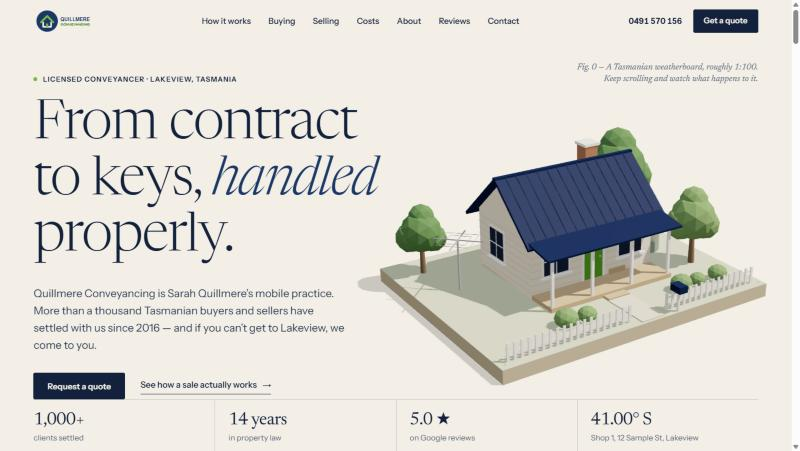
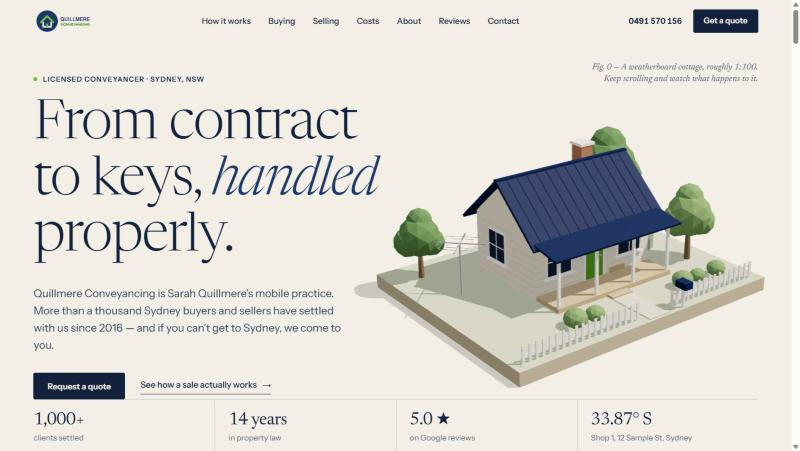
Quillmere demo: move the business from Tasmania to Sydney (#2)
Address, phone, coordinates, copy and zoning terms now read Sydney/NSW, and the
stamp duty calculator uses the NSW 2026/27 general transfer duty rates from
Revenue NSW. New card thumbnail.

diff --git a/website/demo-quillmere-conveyancing/index.html b/website/demo-quillmere-conveyancing/index.html
@@ -6,8 +6,8 @@
 <meta name="robots" content="noindex, follow">
 <link rel="canonical" href="https://thedigitalagila.com/demo-quillmere-conveyancing/">
 <link rel="icon" href="img/logo.svg">
-<title>Quillmere Conveyancing — Licensed Conveyancer, Lakeview Tasmania</title>
-<meta name="description" content="Sarah Quillmere's mobile conveyancing practice in Lakeview, Tasmania. Buying or selling, from contract to keys.">
+<title>Quillmere Conveyancing — Licensed Conveyancer, Sydney NSW</title>
+<meta name="description" content="Sarah Quillmere's mobile conveyancing practice in Sydney, NSW. Buying or selling, from contract to keys.">
 <link rel="preconnect" href="https://fonts.googleapis.com">
 <link rel="preconnect" href="https://fonts.gstatic.com" crossorigin>
 <link href="https://fonts.googleapis.com/css2?family=Instrument+Sans:wght@400;500;600&family=Newsreader:ital,opsz,wght@0,6..72,300;0,6..72,400;0,6..72,500;1,6..72,300;1,6..72,400&display=swap" rel="stylesheet">
@@ -43,24 +43,24 @@
   <!-- HERO -->
   <section class="hero">
     <div class="hero-copy">
-      <p class="label"><span class="dot"></span>Licensed conveyancer · Lakeview, Tasmania</p>
+      <p class="label"><span class="dot"></span>Licensed conveyancer · Sydney, NSW</p>
       <h1>
         <span class="ln"><span>From contract</span></span>
         <span class="ln"><span>to keys, <em>handled</em></span></span>
         <span class="ln"><span>properly.</span></span>
       </h1>
-      <p class="lede">Quillmere Conveyancing is Sarah Quillmere’s mobile practice. More than a thousand Tasmanian buyers and sellers have settled with us since 2016 — and if you can’t get to Lakeview, we come to you.</p>
+      <p class="lede">Quillmere Conveyancing is Sarah Quillmere’s mobile practice. More than a thousand Sydney buyers and sellers have settled with us since 2016 — and if you can’t get to Sydney, we come to you.</p>
       <div class="hero-cta">
         <a class="btn btn-solid" href="#contact">Request a quote</a>
         <a class="link-arrow" href="#process">See how a sale actually works</a>
       </div>
     </div>
-    <p class="model-note">Fig. 0 — A Tasmanian weatherboard, roughly 1:100.<br>Keep scrolling and watch what happens to it.</p>
+    <p class="model-note">Fig. 0 — A weatherboard cottage, roughly 1:100.<br>Keep scrolling and watch what happens to it.</p>
     <ul class="hero-facts">
       <li><b>1,000+</b><span>clients settled</span></li>
       <li><b>14 years</b><span>in property law</span></li>
       <li><b>5.0 ★</b><span>on Google reviews</span></li>
-      <li><b>41.00° S</b><span>Shop 1, 12 Sample St, Lakeview</span></li>
+      <li><b>33.87° S</b><span>Shop 1, 12 Sample St, Sydney</span></li>
     </ul>
   </section>
 
@@ -71,7 +71,7 @@
       <p class="statement reveal">It’s the part of property law that moves a home from one name to another. It sounds simple. <em>It rarely is.</em></p>
       <p class="body reveal">Behind a single signature sit contract terms, mortgages, the type of title and tenancy, council regulations and zoning. Our job is to read all of it before you commit to any of it.</p>
       <ul class="terms reveal" aria-label="Things a conveyancer checks">
-        <li>Covenants</li><li>Easements</li><li>Caveats</li><li>Title type</li><li>Tenancy</li><li>Zoning</li><li>Planning schemes</li><li>Adjustments</li>
+        <li>Covenants</li><li>Easements</li><li>Caveats</li><li>Title type</li><li>Tenancy</li><li>Zoning</li><li>Planning controls</li><li>Adjustments</li>
       </ul>
     </div>
   </section>
@@ -147,8 +147,8 @@
       </div>
       <ul class="awards">
         <li><span>2023</span>Business Excellence Awards <i>Finalist</i></li>
-        <li><span>2023</span>Best Property Conveyancing Services Business <i>Tasmania</i></li>
-        <li><span>2022</span>Best Conveyancing Firm, APAC Legal Awards <i>Tasmania</i></li>
+        <li><span>2023</span>Best Property Conveyancing Services Business <i>NSW</i></li>
+        <li><span>2022</span>Best Conveyancing Firm, APAC Legal Awards <i>NSW</i></li>
         <li><span>2022</span>Client Service Excellence Award <i>APAC Legal Awards</i></li>
       </ul>
     </div>
@@ -196,7 +196,7 @@
       <div class="duty-copy">
         <p class="label">Costs involved</p>
         <h2 class="reveal">The biggest cost isn’t our fee. It’s the duty.</h2>
-        <p class="body">Drag the price to see roughly what the Tasmanian government will ask for on transfer. Our own fee is quoted up front, in writing, before you commit to anything.</p>
+        <p class="body">Drag the price to see roughly what the NSW Government will ask for on transfer. Our own fee is quoted up front, in writing, before you commit to anything.</p>
         <a class="btn btn-line" href="#contact">Ask for a written quote</a>
       </div>
       <div class="calc reveal">
@@ -205,10 +205,10 @@
         <input type="range" id="priceRange" min="100000" max="1500000" step="5000" value="620000" aria-label="Purchase price slider">
         <div class="calc-scale"><span>$100k</span><span>$800k</span><span>$1.5m</span></div>
         <div class="calc-out">
-          <div><span>Estimated transfer duty</span><output id="dutyOut">$23,348</output></div>
-          <div><span>Share of the price</span><output id="dutyPct">3.77%</output></div>
+          <div><span>Estimated transfer duty</span><output id="dutyOut">$22,087</output></div>
+          <div><span>Share of the price</span><output id="dutyPct">3.56%</output></div>
         </div>
-        <p class="calc-note" id="calcNote">General Tasmanian rate only. It doesn’t account for first home buyer or pensioner concessions, or foreign purchaser surcharges. An estimate, not advice — we’ll confirm the exact figure with your quote.</p>
+        <p class="calc-note" id="calcNote">General NSW rate only. It doesn’t account for first home buyer or pensioner concessions, or foreign purchaser surcharges. An estimate, not advice — we’ll confirm the exact figure with your quote.</p>
       </div>
     </div>
   </section>
@@ -227,7 +227,7 @@
           <h3>Sarah Quillmere</h3>
           <p class="role">Owner · Licensed conveyancer</p>
           <p>Sarah has worked in the legal industry for over 14 years. She finished her Advanced Diploma in Conveyancing in 2016 and opened a mobile practice the same year, because the people who most need a conveyancer are usually at work during office hours.</p>
-          <p>She invests in and develops property herself, keeps up with the council planning schemes, and will tell you plainly whether a property suits what you intend to do with it. What she likes most is seeing what clients go on to make of the place.</p>
+          <p>She invests in and develops property herself, keeps up with the council planning controls, and will tell you plainly whether a property suits what you intend to do with it. What she likes most is seeing what clients go on to make of the place.</p>
           <a class="link-arrow" href="mailto:sarah@quillmereconveyancing.example">sarah@quillmereconveyancing.example</a>
         </div>
       </article>
@@ -275,9 +275,9 @@
       </div>
       <address>
         <dl>
-          <div><dt>Call</dt><dd><a href="tel:0491570156">0491 570 156</a><br><a href="tel:0355500142">(03) 5550 0142</a></dd></div>
+          <div><dt>Call</dt><dd><a href="tel:0491570156">0491 570 156</a><br><a href="tel:0255500142">(02) 5550 0142</a></dd></div>
           <div><dt>Write</dt><dd><a href="mailto:hello@quillmereconveyancing.example">hello@quillmereconveyancing.example</a></dd></div>
-          <div><dt>Visit</dt><dd>Shop 1, 12 Sample Street<br>Lakeview TAS 7000</dd></div>
+          <div><dt>Visit</dt><dd>Shop 1, 12 Sample Street<br>Sydney NSW 2000</dd></div>
           <div><dt>Hours</dt><dd>Monday to Friday, 9am – 5pm<br>Or we come to you, by arrangement</dd></div>
         </dl>
       </address>
@@ -308,7 +308,7 @@
   </div>
   <div class="wrap foot-base">
     <span>© <span id="yr">2026</span> Quillmere Conveyancing</span>
-    <span>Shop 1, 12 Sample Street, Lakeview TAS 7000</span>
+    <span>Shop 1, 12 Sample Street, Sydney NSW 2000</span>
   </div>
 </footer>
 

diff --git a/website/demo-quillmere-conveyancing/scene.js b/website/demo-quillmere-conveyancing/scene.js
@@ -84,7 +84,7 @@ function start() {
       W: 5.2, D: 3.6, storeys: 1, wall: 0xf4efe4, roofC: 0x1d3562, doorC: 0x6fae3d, roof: 'gable', rise: 1.55,
       front: 'veranda', boards: true, chimney: true, tank: true, hoist: true, rooms: GROUND,
       spec: { name: 'The weatherboard cottage', sub: 'Single storey · built around 1950',
-        facts: [['Bedrooms', '2'], ['Bathrooms', '1'], ['Land', '612 m²'], ['Zoning', 'General Residential']],
+        facts: [['Bedrooms', '2'], ['Bathrooms', '1'], ['Land', '612 m²'], ['Zoning', 'R2 Low Density Residential']],
         checks: ['Whether the rainwater tank and wood heater were ever approved', 'That the side fence really sits on the title boundary', 'Any easement for the sewer line across the back yard'] },
     },
     family: {
@@ -92,7 +92,7 @@ function start() {
       front: 'porch', boards: true, chimney: true,
       rooms: [['Hall & stairs', -0.31, 0, 0, 'stairs'], ['Living', 0.2, 0.25, 0, 'sofa'], ['Kitchen', 0.2, -0.3, 0, 'kitchen'], ...UPPER],
       spec: { name: 'The family two-storey', sub: 'Two storeys · weatherboard',
-        facts: [['Bedrooms', '4'], ['Bathrooms', '2'], ['Land', '780 m²'], ['Zoning', 'General Residential']],
+        facts: [['Bedrooms', '4'], ['Bathrooms', '2'], ['Land', '780 m²'], ['Zoning', 'R2 Low Density Residential']],
         checks: ['That the second storey has its completion certificate', 'Building and plumbing permits for the upstairs bathroom', 'Whether the driveway crosses a neighbour’s title'] },
     },
     bungalow: {
@@ -100,7 +100,7 @@ function start() {
       front: 'porch', plinth: 0x9c7462,
       rooms: [['Bedrooms', -0.31, -0.05, 0, 'bed'], ['Living', 0.2, 0.25, 0, 'sofa'], ['Kitchen', 0.2, -0.3, 0, 'kitchen']],
       spec: { name: 'The brick bungalow', sub: 'Single storey · brick veneer, hip roof',
-        facts: [['Bedrooms', '3'], ['Bathrooms', '1'], ['Land', '705 m²'], ['Zoning', 'General Residential']],
+        facts: [['Bedrooms', '3'], ['Bathrooms', '1'], ['Land', '705 m²'], ['Zoning', 'R2 Low Density Residential']],
         checks: ['What stays with the house: blinds, the wood heater, the shed', 'Any mortgage or caveat to be discharged before settlement', 'Rates and land tax, paid up to the day'] },
     },
     townhouse: {
@@ -109,28 +109,28 @@ function start() {
       rooms: [['Entry & stairs', -0.31, 0, 0, 'stairs'], ['Living', 0.2, 0.25, 0, 'sofa'], ['Kitchen', 0.2, -0.3, 0, 'kitchen'], ...UPPER],
       spec: { name: 'The townhouse', sub: 'Two storeys · strata title',
         facts: [['Bedrooms', '3'], ['Bathrooms', '2'], ['Lot', '240 m²'], ['Title', 'Strata']],
-        checks: ['Body corporate levies, by-laws and minutes', 'Which walls and which car space are actually yours', 'The insurance the body corporate holds'] },
+        checks: ['Owners corporation levies, by-laws and minutes', 'Which walls and which car space are actually yours', 'The insurance the owners corporation holds'] },
     },
     modern: {
       W: 6.2, D: 3.8, storeys: 1, wall: 0x3d4350, roofC: 0x23272f, doorC: 0xc98f52, roof: 'skillion', gap: 0.75,
       front: 'none', plinth: 0x2a2e37, bushes: [[2.9, 3.2, 0.4], [3.6, 3.15, 0.3], [4.4, 3.2, 0.36]],
       rooms: [['Bedrooms', -0.31, -0.05, 0, 'bed'], ['Living', 0.2, 0.25, 0, 'sofa'], ['Kitchen', 0.2, -0.3, 0, 'kitchen']],
       spec: { name: 'The new build', sub: 'Single storey · finished last year',
-        facts: [['Bedrooms', '3'], ['Bathrooms', '2'], ['Land', '550 m²'], ['Zoning', 'General Residential']],
+        facts: [['Bedrooms', '3'], ['Bathrooms', '2'], ['Land', '550 m²'], ['Zoning', 'R2 Low Density Residential']],
         checks: ['Certificate of completion and the occupancy permit', 'That the builder’s warranty is still in force', 'Duty and adjustments, worked out to the dollar'] },
     },
     corner: {
       W: 5.6, D: 3.8, storeys: 1, wall: 0xdfe3d3, roofC: 0x8a4a3c, doorC: 0x2f4f7f, roof: 'hip', rise: 1.45,
       front: 'veranda', boards: true, hoist: true, rooms: GROUND,
       spec: { name: 'The corner block', sub: 'Single storey · veranda, hip roof',
-        facts: [['Bedrooms', '3'], ['Bathrooms', '1'], ['Land', '830 m²'], ['Zoning', 'General Residential']],
+        facts: [['Bedrooms', '3'], ['Bathrooms', '1'], ['Land', '830 m²'], ['Zoning', 'R2 Low Density Residential']],
         checks: ['Two street frontages mean two sets of setbacks', 'Whether the veranda was added later, and approved', 'The stormwater easement along the side boundary'] },
     },
     shop: {
       W: 5.6, D: 4.0, storeys: 1, wall: 0xf1ece2, roofC: 0x2a3550, doorC: 0x1d3562, roof: 'flat', front: 'awning', shopfront: true,
       plinth: 0x1d3562, bushes: [],
       rooms: [['Files', -0.31, -0.05, 0, 'shelves'], ['Front desk', 0.2, 0.25, 0, 'desk'], ['Meeting room', 0.2, -0.3, 0, 'table']],
-      spec: { name: 'Our shop', sub: 'Shop 1, 12 Sample Street, Lakeview',
+      spec: { name: 'Our shop', sub: 'Shop 1, 12 Sample Street, Sydney',
         facts: [['Open', 'Mon – Fri, 9 – 5'], ['Phone', '0491 570 156'], ['Parking', 'Out the front'], ['Kettle', 'Usually on']],
         head: 'What happens here', checks: ['Contracts get read before anyone signs them', 'Emily keeps every file on schedule', 'Questions get answered, however small'],
         note: 'Not to scale. The real one has more paperwork.' },
@@ -506,7 +506,7 @@ function start() {
         world.add(this.inst);
         this.v = new Float32Array(N);
         this.j = Array.from({ length: N }, (_, i) => [Math.sin(i * 12.9) * 0.035, Math.cos(i * 7.3) * 0.035, Math.sin(i * 3.1) * 3]);
-        this.n = Math.round((window.__duty || 23348) / 1000);
+        this.n = Math.round((window.__duty || 22087) / 1000);
         addEventListener('duty', e => { this.n = Math.min(N, Math.round(e.detail.duty / 1000)); });
         this.o = new THREE.Object3D();
       },

diff --git a/website/demo-quillmere-conveyancing/about.html b/website/demo-quillmere-conveyancing/about.html
@@ -7,7 +7,7 @@
 <link rel="canonical" href="https://thedigitalagila.com/demo-quillmere-conveyancing/about">
 <link rel="icon" href="img/logo.svg">
 <title>About — Quillmere Conveyancing</title>
-<meta name="description" content="Sarah Quillmere and Emily Tarnwick, the people behind Quillmere Conveyancing in Lakeview, Tasmania.">
+<meta name="description" content="Sarah Quillmere and Emily Tarnwick, the people behind Quillmere Conveyancing in Sydney, NSW.">
 <link rel="preconnect" href="https://fonts.googleapis.com">
 <link rel="preconnect" href="https://fonts.gstatic.com" crossorigin>
 <link href="https://fonts.googleapis.com/css2?family=Instrument+Sans:wght@400;500;600&family=Newsreader:ital,opsz,wght@0,6..72,300;0,6..72,400;0,6..72,500;1,6..72,300;1,6..72,400&display=swap" rel="stylesheet">
@@ -42,7 +42,7 @@
   <section class="phero">
     <p class="label crumb"><a href="index.html">Home</a><span>/</span>About</p>
     <h1><span class="ln"><span>A small office</span></span><span class="ln"><span>that <em>comes to you.</em></span></span></h1>
-    <p class="lede">Quillmere Conveyancing started in 2016 as a mobile practice, because the people who most need a conveyancer are usually at work during office hours. There’s a shop in Lakeview now. The car still gets plenty of use.</p>
+    <p class="lede">Quillmere Conveyancing started in 2016 as a mobile practice, because the people who most need a conveyancer are usually at work during office hours. There’s a shop in Sydney now. The car still gets plenty of use.</p>
   </section>
 
   <section class="story">
@@ -52,7 +52,7 @@
         <h2>Sarah Quillmere</h2>
         <p class="role">Owner · Licensed conveyancer</p>
         <p>Sarah has worked in the legal industry for over 14 years and completed her Advanced Diploma in Conveyancing in 2016. She’s passionate about property investing and development, and invested in her clients’ wellbeing.</p>
-        <p>She stays current on conveyancing procedure, legislation and the council planning schemes, and can tell you whether a property suits what you intend to do with it.</p>
+        <p>She stays current on conveyancing procedure, legislation and the council planning controls, and can tell you whether a property suits what you intend to do with it.</p>
         <p><a class="link-arrow" href="mailto:sarah@quillmereconveyancing.example">sarah@quillmereconveyancing.example</a></p>
       </article>
       <article class="chapter">
@@ -67,8 +67,8 @@
         <h2>Awards</h2>
         <ul class="ruled awards-list">
           <li><span>2023</span>Business Excellence Awards, Finalist</li>
-          <li><span>2023</span>Best Property Conveyancing Services Business, Tasmania</li>
-          <li><span>2022</span>Best Conveyancing Firm, Tasmania · APAC Legal Awards</li>
+          <li><span>2023</span>Best Property Conveyancing Services Business, NSW</li>
+          <li><span>2022</span>Best Conveyancing Firm, NSW · APAC Legal Awards</li>
           <li><span>2022</span>Client Service Excellence Award · APAC Legal Awards</li>
         </ul>
         <p>Thank you to our clients, our staff and everyone who works with us. None of it happens without you.</p>
@@ -84,7 +84,7 @@
 
   <section class="next">
     <div class="wrap">
-      <p class="label">Shop 1, 12 Sample Street, Lakeview</p>
+      <p class="label">Shop 1, 12 Sample Street, Sydney</p>
       <a href="contact.html">Get in touch <span>Or ask us to come to you</span></a>
       <a href="reviews.html">What clients say <span>Five stars on Google</span></a>
       <a href="conveyancing.html">How conveyancing works <span>Five stages</span></a>
@@ -115,7 +115,7 @@
   </div>
   <div class="wrap foot-base">
     <span>© <span id="yr">2026</span> Quillmere Conveyancing</span>
-    <span>Shop 1, 12 Sample Street, Lakeview TAS 7000</span>
+    <span>Shop 1, 12 Sample Street, Sydney NSW 2000</span>
   </div>
 </footer>
 

diff --git a/website/demo-quillmere-conveyancing/costs.html b/website/demo-quillmere-conveyancing/costs.html
@@ -7,7 +7,7 @@
 <link rel="canonical" href="https://thedigitalagila.com/demo-quillmere-conveyancing/costs">
 <link rel="icon" href="img/logo.svg">
 <title>Costs and stamp duty — Quillmere Conveyancing</title>
-<meta name="description" content="Conveyancing costs explained, with a Tasmanian stamp duty calculator.">
+<meta name="description" content="Conveyancing costs explained, with an NSW stamp duty calculator.">
 <link rel="preconnect" href="https://fonts.googleapis.com">
 <link rel="preconnect" href="https://fonts.gstatic.com" crossorigin>
 <link href="https://fonts.googleapis.com/css2?family=Instrument+Sans:wght@400;500;600&family=Newsreader:ital,opsz,wght@0,6..72,300;0,6..72,400;0,6..72,500;1,6..72,300;1,6..72,400&display=swap" rel="stylesheet">
@@ -55,10 +55,10 @@
           <input type="range" id="priceRange" min="100000" max="1500000" step="5000" value="620000" aria-label="Purchase price slider">
           <div class="calc-scale"><span>$100k</span><span>$800k</span><span>$1.5m</span></div>
           <div class="calc-out">
-            <div><span>Estimated transfer duty</span><output id="dutyOut">$23,348</output></div>
-            <div><span>Share of the price</span><output id="dutyPct">3.77%</output></div>
+            <div><span>Estimated transfer duty</span><output id="dutyOut">$22,087</output></div>
+            <div><span>Share of the price</span><output id="dutyPct">3.56%</output></div>
           </div>
-          <p class="calc-note" id="calcNote">Each coin on the lawn is about $1,000 of duty. General Tasmanian rate only, with no concessions or surcharges applied. An estimate, not advice.</p>
+          <p class="calc-note" id="calcNote">Each coin on the lawn is about $1,000 of duty. General NSW rate only, with no concessions or surcharges applied. An estimate, not advice.</p>
         </div>
       </article>
       <article class="chapter">
@@ -113,7 +113,7 @@
   </div>
   <div class="wrap foot-base">
     <span>© <span id="yr">2026</span> Quillmere Conveyancing</span>
-    <span>Shop 1, 12 Sample Street, Lakeview TAS 7000</span>
+    <span>Shop 1, 12 Sample Street, Sydney NSW 2000</span>
   </div>
 </footer>
 

diff --git a/website/demo-quillmere-conveyancing/contact.html b/website/demo-quillmere-conveyancing/contact.html
@@ -7,7 +7,7 @@
 <link rel="canonical" href="https://thedigitalagila.com/demo-quillmere-conveyancing/contact">
 <link rel="icon" href="img/logo.svg">
 <title>Contact — Quillmere Conveyancing</title>
-<meta name="description" content="Call, write to or visit Quillmere Conveyancing at Shop 1, 12 Sample Street, Lakeview.">
+<meta name="description" content="Call, write to or visit Quillmere Conveyancing at Shop 1, 12 Sample Street, Sydney.">
 <link rel="preconnect" href="https://fonts.googleapis.com">
 <link rel="preconnect" href="https://fonts.gstatic.com" crossorigin>
 <link href="https://fonts.googleapis.com/css2?family=Instrument+Sans:wght@400;500;600&family=Newsreader:ital,opsz,wght@0,6..72,300;0,6..72,400;0,6..72,500;1,6..72,300;1,6..72,400&display=swap" rel="stylesheet">
@@ -70,9 +70,9 @@
         <p class="ch-no">Or the old way</p>
         <address class="on-paper">
           <dl>
-            <div><dt>Call</dt><dd><a href="tel:0491570156">0491 570 156</a><br><a href="tel:0355500142">(03) 5550 0142</a></dd></div>
+            <div><dt>Call</dt><dd><a href="tel:0491570156">0491 570 156</a><br><a href="tel:0255500142">(02) 5550 0142</a></dd></div>
             <div><dt>Write</dt><dd><a href="mailto:hello@quillmereconveyancing.example">hello@quillmereconveyancing.example</a></dd></div>
-            <div><dt>Visit</dt><dd>Shop 1, 12 Sample Street<br>Lakeview TAS 7000</dd></div>
+            <div><dt>Visit</dt><dd>Shop 1, 12 Sample Street<br>Sydney NSW 2000</dd></div>
             <div><dt>Hours</dt><dd>Monday to Friday, 9am – 5pm<br>Closed Saturday and Sunday</dd></div>
             <div><dt>Follow</dt><dd><a href="#">Facebook</a> · <a href="#">Instagram</a> · <a href="#">YouTube</a></dd></div>
           </dl>
@@ -114,7 +114,7 @@
   </div>
   <div class="wrap foot-base">
     <span>© <span id="yr">2026</span> Quillmere Conveyancing</span>
-    <span>Shop 1, 12 Sample Street, Lakeview TAS 7000</span>
+    <span>Shop 1, 12 Sample Street, Sydney NSW 2000</span>
   </div>
 </footer>
 

diff --git a/website/demo-quillmere-conveyancing/buying.html b/website/demo-quillmere-conveyancing/buying.html
@@ -7,7 +7,7 @@
 <link rel="canonical" href="https://thedigitalagila.com/demo-quillmere-conveyancing/buying">
 <link rel="icon" href="img/logo.svg">
 <title>Buying a property — Quillmere Conveyancing</title>
-<meta name="description" content="What happens when you buy a property in Tasmania, stage by stage, and what your conveyancer does at each one.">
+<meta name="description" content="What happens when you buy a property in NSW, stage by stage, and what your conveyancer does at each one.">
 <link rel="preconnect" href="https://fonts.googleapis.com">
 <link rel="preconnect" href="https://fonts.gstatic.com" crossorigin>
 <link href="https://fonts.googleapis.com/css2?family=Instrument+Sans:wght@400;500;600&family=Newsreader:ital,opsz,wght@0,6..72,300;0,6..72,400;0,6..72,500;1,6..72,300;1,6..72,400&display=swap" rel="stylesheet">
@@ -114,7 +114,7 @@
   </div>
   <div class="wrap foot-base">
     <span>© <span id="yr">2026</span> Quillmere Conveyancing</span>
-    <span>Shop 1, 12 Sample Street, Lakeview TAS 7000</span>
+    <span>Shop 1, 12 Sample Street, Sydney NSW 2000</span>
   </div>
 </footer>
 

diff --git a/website/demo-quillmere-conveyancing/selling.html b/website/demo-quillmere-conveyancing/selling.html
@@ -7,7 +7,7 @@
 <link rel="canonical" href="https://thedigitalagila.com/demo-quillmere-conveyancing/selling">
 <link rel="icon" href="img/logo.svg">
 <title>Selling a property — Quillmere Conveyancing</title>
-<meta name="description" content="Selling a property in Tasmania: the contract, the deposit, and what happens before and at settlement.">
+<meta name="description" content="Selling a property in NSW: the contract, the deposit, and what happens before and at settlement.">
 <link rel="preconnect" href="https://fonts.googleapis.com">
 <link rel="preconnect" href="https://fonts.gstatic.com" crossorigin>
 <link href="https://fonts.googleapis.com/css2?family=Instrument+Sans:wght@400;500;600&family=Newsreader:ital,opsz,wght@0,6..72,300;0,6..72,400;0,6..72,500;1,6..72,300;1,6..72,400&display=swap" rel="stylesheet">
@@ -106,7 +106,7 @@
   </div>
   <div class="wrap foot-base">
     <span>© <span id="yr">2026</span> Quillmere Conveyancing</span>
-    <span>Shop 1, 12 Sample Street, Lakeview TAS 7000</span>
+    <span>Shop 1, 12 Sample Street, Sydney NSW 2000</span>
   </div>
 </footer>
 

diff --git a/website/demo-quillmere-conveyancing/site.js b/website/demo-quillmere-conveyancing/site.js
@@ -39,15 +39,14 @@ if (quotes.length) {
   if (!reduced) timer = setInterval(() => show((qi + 1) % quotes.length), 7000);
 }
 
-// Tasmanian transfer duty (general rate)
+// NSW transfer duty, general rate, 2026/27 (Revenue NSW). An estimate: no concessions or surcharges.
 function duty(v) {
-  if (v <= 3000) return 50;
-  if (v <= 25000) return 50 + (v - 3000) * 0.0175;
-  if (v <= 75000) return 435 + (v - 25000) * 0.0225;
-  if (v <= 200000) return 1560 + (v - 75000) * 0.035;
-  if (v <= 375000) return 5935 + (v - 200000) * 0.04;
-  if (v <= 725000) return 12935 + (v - 375000) * 0.0425;
-  return 27810 + (v - 725000) * 0.045;
+  if (v <= 18000) return Math.max(20, v * 0.0125);
+  if (v <= 38000) return 225 + (v - 18000) * 0.015;
+  if (v <= 103000) return 525 + (v - 38000) * 0.0175;
+  if (v <= 387000) return 1662 + (v - 103000) * 0.035;
+  if (v <= 1290000) return 11602 + (v - 387000) * 0.045;
+  return 52237 + (v - 1290000) * 0.055;
 }
 const price = $('#price'), range = $('#priceRange');
 if (price) {

diff --git a/website/demo-quillmere-conveyancing/conveyancing.html b/website/demo-quillmere-conveyancing/conveyancing.html
@@ -73,7 +73,7 @@
         <p>Both sides have a long list to get through while the contract is on its way to completion. The important ones:</p>
         <div class="two">
           <div><h3>The buyer</h3><ul class="ruled"><li>Checks on the property</li><li>Organising insurance</li><li>Loan arrangements</li></ul></div>
-          <div><h3>The seller</h3><ul class="ruled"><li>Mortgage discharge</li><li>Signing the Transfer of Land</li><li>Agreeing adjustments</li></ul></div>
+          <div><h3>The seller</h3><ul class="ruled"><li>Mortgage discharge</li><li>Signing the transfer</li><li>Agreeing adjustments</li></ul></div>
         </div>
       </article>
       <article class="chapter">
@@ -124,7 +124,7 @@
   </div>
   <div class="wrap foot-base">
     <span>© <span id="yr">2026</span> Quillmere Conveyancing</span>
-    <span>Shop 1, 12 Sample Street, Lakeview TAS 7000</span>
+    <span>Shop 1, 12 Sample Street, Sydney NSW 2000</span>
   </div>
 </footer>
 

diff --git a/website/demo-projects.html b/website/demo-projects.html
@@ -250,7 +250,7 @@
           <div class="work-card__shot">
             <div class="browser">
               <div class="browser__bar" aria-hidden="true"><span class="browser__dots"><i></i><i></i><i></i></span><span class="browser__url">Quillmere · conveyancing website</span></div>
-              <img class="browser__shot" src="assets/img/work/quillmere-demo.jpg?v=20261114" width="800" height="451" alt="The conveyancing website demo: a headline beside a 3D weatherboard cottage on its block" loading="lazy" decoding="async">
+              <img class="browser__shot" src="assets/img/work/quillmere-demo.jpg?v=20261115" width="800" height="451" alt="The conveyancing website demo: a headline beside a 3D weatherboard cottage on its block" loading="lazy" decoding="async">
             </div>
           </div>
           <div class="work-card__text">

diff --git a/website/demo-quillmere-conveyancing/reviews.html b/website/demo-quillmere-conveyancing/reviews.html
@@ -89,7 +89,7 @@
   </div>
   <div class="wrap foot-base">
     <span>© <span id="yr">2026</span> Quillmere Conveyancing</span>
-    <span>Shop 1, 12 Sample Street, Lakeview TAS 7000</span>
+    <span>Shop 1, 12 Sample Street, Sydney NSW 2000</span>
   </div>
 </footer>
 
